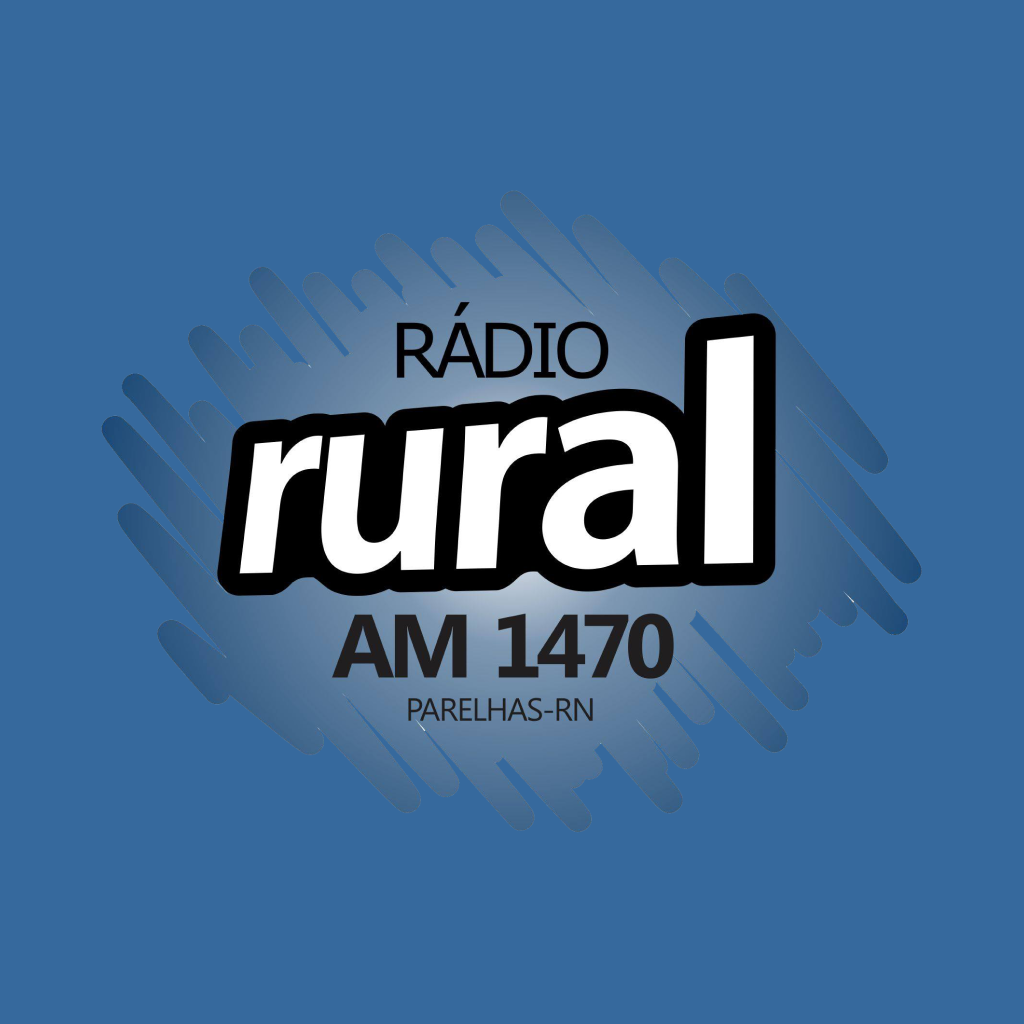
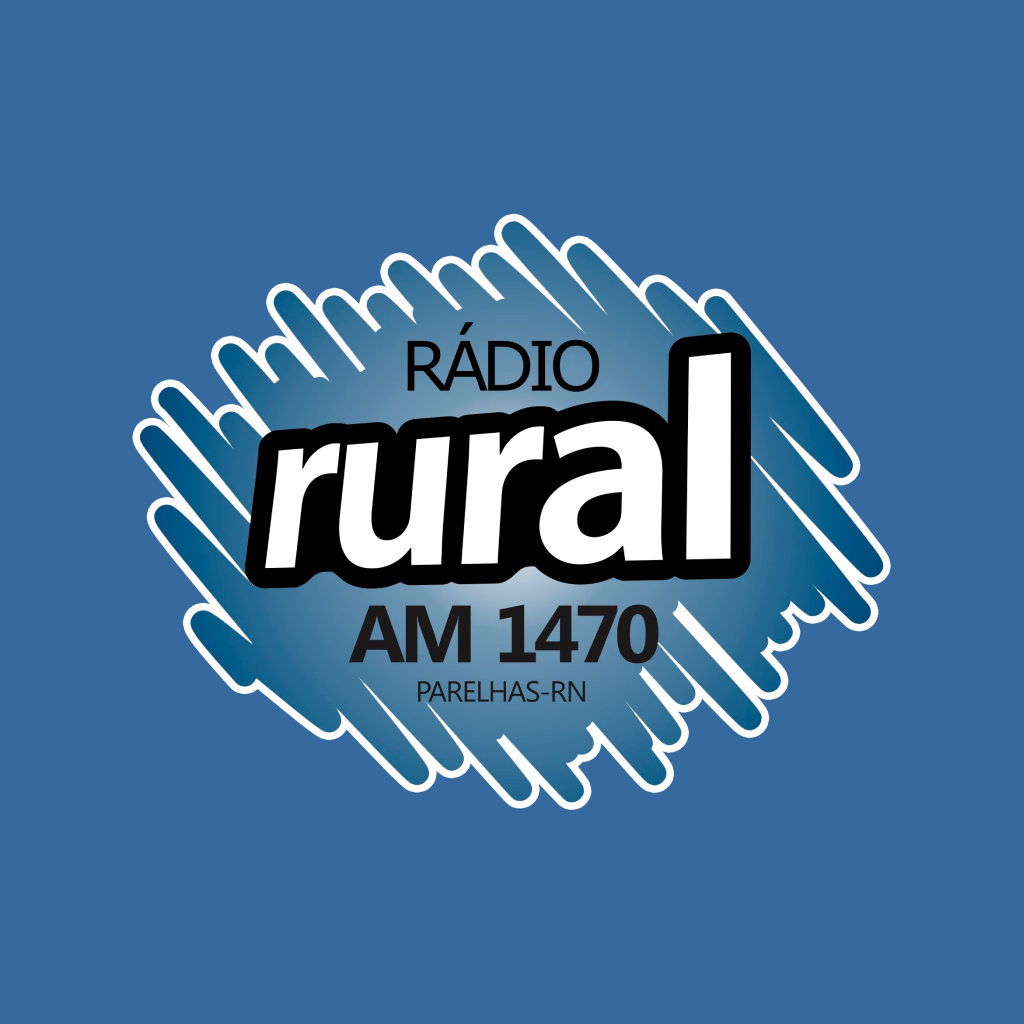
better images and ui changes

Changed region(s): [[0.0938, 0.1875, 0.9062, 0.8125]]

diff --git a/src/components/Social.js b/src/components/Social.js
@@ -7,21 +7,21 @@ import * as Linking from 'expo-linking';
 
 const Social = () => {
       return(
-        <View style={styles.playView}>
-            <TouchableOpacity style={{padding: 32,}} onPress={() => {Linking.openURL('https://pt-br.facebook.com/ruralamdeparelhas/')}}>
-              <Fontisto  name="facebook" size={42} color="white" />
+        <View style={styles.socialView}>
+            <TouchableOpacity style={styles.socialButton} onPress={() => {Linking.openURL('https://pt-br.facebook.com/ruralamdeparelhas/')}}>
+              <Fontisto  name="facebook" size={48} color="white" />
             </TouchableOpacity>
             
-            <TouchableOpacity style={{padding: 32,}} onPress={() => {Linking.openURL('http://api.whatsapp.com/send?phone=+5584996295274')}}>
-              <Fontisto  name="whatsapp" size={42} color="white" />
+            <TouchableOpacity style={styles.socialButton} onPress={() => {Linking.openURL('http://api.whatsapp.com/send?phone=+5584996295274')}}>
+              <Fontisto  name="whatsapp" size={48} color="white" />
             </TouchableOpacity>
   
-            <TouchableOpacity style={{padding: 32,}} onPress={() => {Linking.openURL('https://www.instagram.com/radioruralamparelhas/')}}>
-              <Fontisto  name="instagram" size={42} color="white" />
+            <TouchableOpacity style={styles.socialButton} onPress={() => {Linking.openURL('https://www.instagram.com/radioruralamparelhas/')}}>
+              <Fontisto  name="instagram" size={48} color="white" />
             </TouchableOpacity>
   
-            <TouchableOpacity style={{padding: 32,}} onPress={() => {Linking.openURL('https://www.ruralam.com.br')}}>
-              <MaterialCommunityIcons  name="web" size={44} color="white" />
+            <TouchableOpacity style={styles.socialButton} onPress={() => {Linking.openURL('https://www.ruralam.com.br')}}>
+              <MaterialCommunityIcons  name="web" size={52} color="white" />
             </TouchableOpacity>
           </View>
       )
@@ -29,11 +29,16 @@ const Social = () => {
 
   const styles = StyleSheet.create({
 
-    playView:{
-      justifyContent:'center',
-      alignItems:'center',
+    socialView:{
       flexDirection:'row',
+      marginBottom: 34,
+      marginHorizontal:28,
     },
+    socialButton:{
+      flex:1,
+      alignItems:'center',
+      justifyContent:'center',
+    }
   });
   
 

diff --git a/src/components/Home.js b/src/components/Home.js
@@ -10,39 +10,38 @@ const Home = () => {
     return (
       <View style={styles.container}>
         <StatusBar style="inverted" />
-            <Image style={styles.radioLogo} source={require('../../assets/radiologo.png')}/>
-            <Image style={styles.backgroundImage} source={backgroundUri}/>
+        <Image style={styles.backgroundImage} source={backgroundUri}/>      
+        <Image style={styles.radioLogo} source={require('../../assets/radiologo.png')}/>
+
               <View style={styles.bottomView}>
                 <Social/>
                 <Buttons/>
               </View>
       </View>
+      
     )};
   
   const styles = StyleSheet.create({
     container: {
       flex: 1,
       alignItems:'center',
-      justifyContent: 'flex-start',
+      justifyContent:'center',
       backgroundColor: '#36699d',
-      height:'100%',
     },
     radioLogo:{
-      marginTop: 200,
-      zIndex:1,
-      transform:[{scaleX: 1.3}, {scaleY:1.3}]
+      transform:[{scaleX:0.2}, {scaleY: 0.2}],
+      marginBottom:250,
     },
     backgroundImage:{
       width:'100%',
       height: '100%',
-      position:'absolute',
       opacity:0.2,
+      position:'absolute'
     },
     bottomView:{
-      flex:1,
-      width:'100%',
-      justifyContent:'flex-end',
-      alignItems:'center',
+      position:'absolute',
+      bottom:0,
+
     }
   });
   

diff --git a/src/components/Buttons.js b/src/components/Buttons.js
@@ -11,7 +11,7 @@ const Buttons = () => {
 
         const radioStatus = {
           radioUri: { uri: 'http://143.208.11.104:8606/stream' },
-          startPlaying: { shouldPlay: true },
+          startPlaying: { shouldPlay: false },
           isPlaying: true,
           initialStatus: {
             staysActiveInBackground: true,
@@ -51,18 +51,14 @@ const Buttons = () => {
     )}
 
 const styles = StyleSheet.create({
-    playButton:{
-        justifyContent:'center',
-        flexDirection:'row',
-        padding: 16,
-        maxWidth:100,
-    },
     viewButton:{
+      flex:1,
       alignItems:'center',
       justifyContent:'center',
       backgroundColor:'#3D78B3',
       width:450,
-      height:120,
+      height:110,
+      
     }
   });
 
